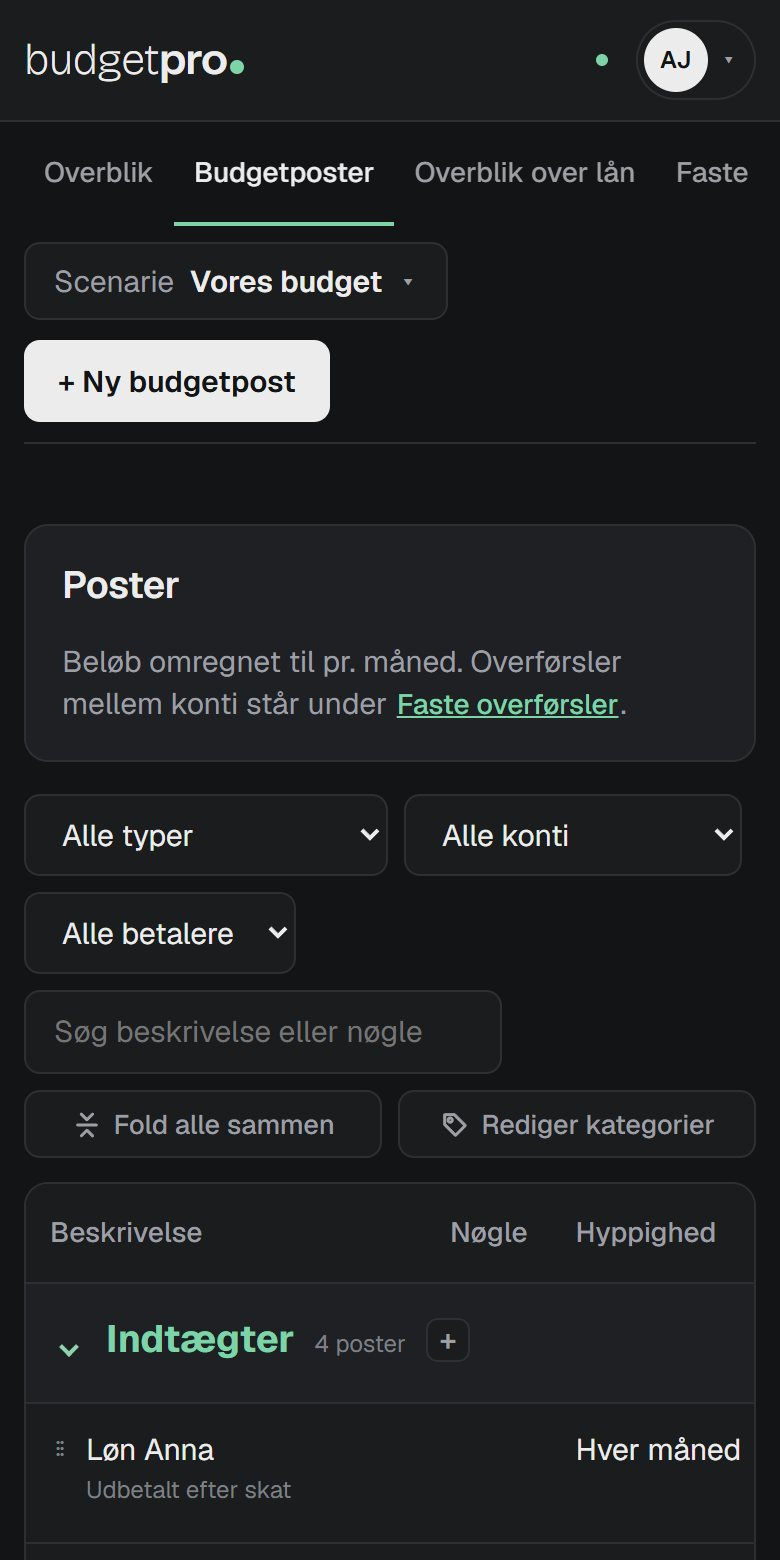
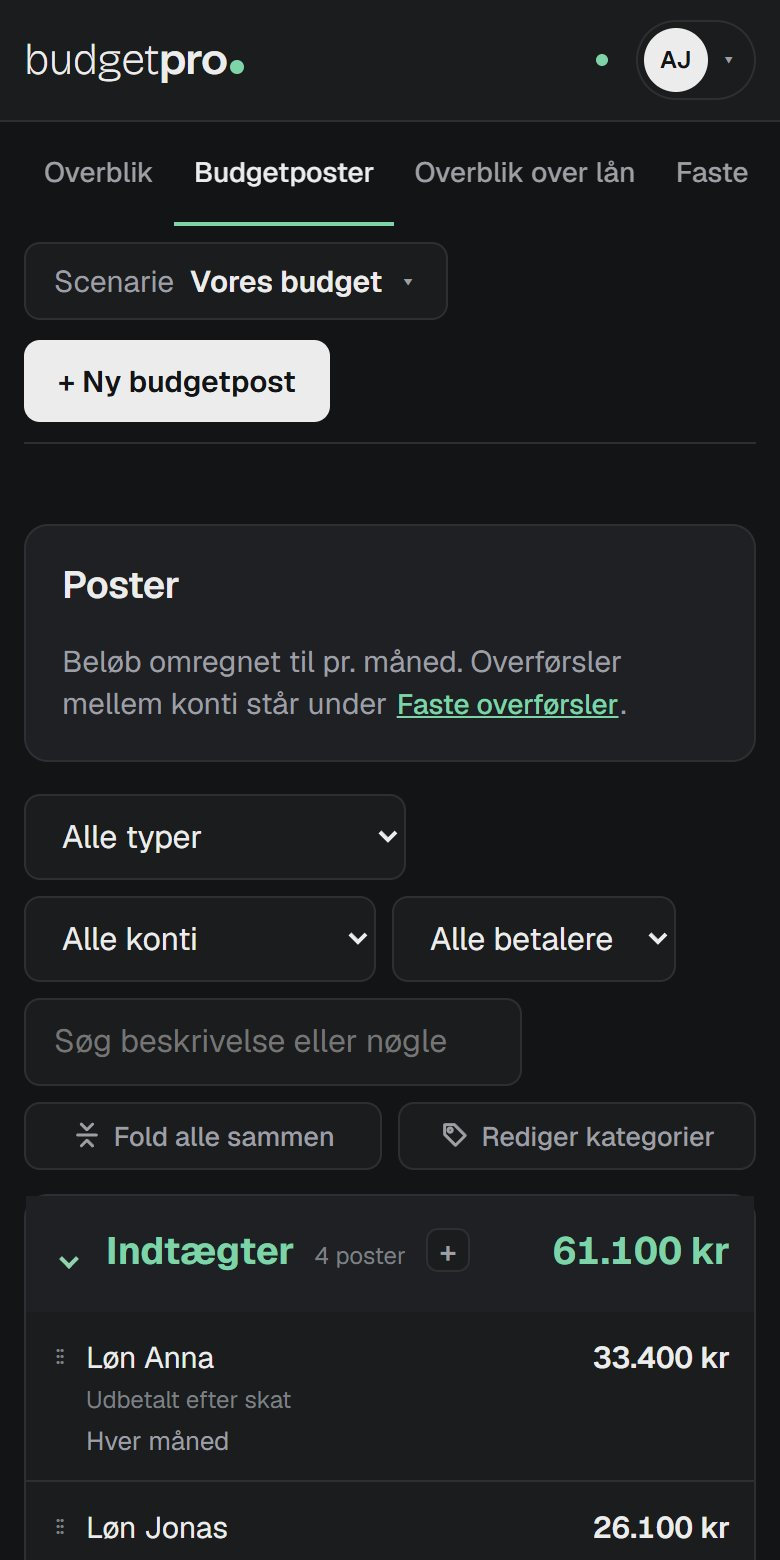
App on phones: post list, full-screen settings, no zoom on inputs
- Budgetposter becomes a list below 560px: text and amount per month on
  top, frequency and change below, instead of eight columns where the
  amount fell off the screen.
- Indstillinger fills the screen, the open tab scrolls into view and the
  tab row fades out while there are more tabs; the tabs no longer stretch.
- Inputs are 16px on phones, so iOS doesn't zoom in on focus.
- Tables wider than the screen show a shadow at the edge with more.
- Deling: e-mail on its own line under name and button; messages scroll
  into view.
- Landing screenshots regenerated.

diff --git a/public/budgetr-app/index.html b/public/budgetr-app/index.html
@@ -394,9 +394,12 @@ dialog.setdlg{height:min(640px,90vh)}.setdlg form{height:100%}
 .personedit{display:grid;grid-template-columns:minmax(0,1fr) auto;gap:8px;align-items:center}
 .personedit input{border:1px solid var(--rule);background:var(--card);border-radius:8px;padding:8px 10px;font-size:15px;min-width:0}
 .setgrp[hidden],.verdict[hidden]{display:none}
-.sharerow{padding:8px 10px;border:1px solid var(--rule);border-radius:8px;background:var(--card)}
-.sharerow .who{min-width:0;display:flex;flex-direction:column;gap:1px;font-size:15px}
-.sharerow .who span{font-size:13px;color:var(--ink2);overflow-wrap:anywhere}
+/* Name and badge with the button beside them; the e-mail gets the whole width below, so a long one wraps less. */
+.sharerow{padding:8px 10px;border:1px solid var(--rule);border-radius:8px;background:var(--card);row-gap:2px}
+.sharerow>b{font-size:15px;min-width:0}
+.sharerow>.mail{grid-column:1/-1;grid-row:2;font-size:13px;color:var(--ink2);overflow-wrap:anywhere}
+.sharerow>button{grid-column:2;grid-row:1}
+.sharerow>button[data-armed="1"]{grid-column:1/-1;grid-row:3;margin-top:6px}
 .setnote{font-size:13px;color:var(--ink2);margin:-4px 0 0;max-width:68ch}
 .setsec .grid3{display:grid;grid-template-columns:repeat(3,minmax(0,1fr));gap:12px}
 @media (max-width:640px){.setbody{grid-template-columns:minmax(0,1fr)}.setnav{flex-direction:row;overflow-x:auto;border-right:0;border-bottom:1px solid var(--rule);padding:8px}.setnav{width:auto}.setnav button{white-space:nowrap}.setnav button span{display:none}.setsec .grid3{grid-template-columns:minmax(0,1fr)}}
@@ -778,6 +781,38 @@ dialog.howdlg{width:min(1180px,96vw);max-width:none;height:92vh;max-height:92vh;
 .hfreqm{display:grid;grid-template-columns:repeat(12,1fr);gap:6px;font-size:12px;color:var(--ink2);text-align:center}
 @media (max-width:760px){dialog.howdlg{width:100vw;height:100vh;max-height:100vh;border-radius:0}.howwrap{grid-template-columns:minmax(0,1fr);grid-template-rows:auto minmax(0,1fr)}.hownav{border-right:0;border-bottom:1px solid var(--rule);padding:12px 12px 8px}.hownav h2{padding:0 6px 8px;font-size:18px}#helpNav{flex-direction:row;overflow-x:auto;scrollbar-width:none}#helpNav a{white-space:nowrap;padding:6px 10px}.howtop{position:absolute;top:8px;right:8px;padding:0}.howbody{padding:16px 16px 60px;gap:28px}.hsec h3{font-size:21px}.hudl{grid-template-columns:minmax(0,1fr)}.hwf>div{grid-template-columns:minmax(0,1fr) 90px}.hwf .tr{grid-column:1/-1;grid-row:2}.hpanel{padding:16px}}
 @media (max-width:760px){.appbar .status{font-size:0;gap:0}.tabs button{min-height:52px;font-size:14px!important;padding:0 10px!important}.navrow{min-height:0}.hero{padding-top:32px}#app>section{padding-top:40px}#app>section>.sechead,#app>section>h2{padding:16px 18px}#app>section>.sechead h2,#app>section>h2{font-size:19px}.person{padding:20px}.person .big{font-size:30px}.kpi b{font-size:21px}#userMenu{width:min(320px,calc(100vw - 24px))}}
+/* Phones. Inputs at 16px, so iOS doesn't zoom in on focus. A table that is wider than the screen shows a shadow
+   at the edge that has more (the covers scroll with the content, the shadows stay). */
+@media (max-width:640px){
+  input:not([type=checkbox]):not([type=radio]),select,textarea{font-size:16px!important}
+  .tablewrap{background:linear-gradient(to right,var(--card) 30%,transparent) left/28px 100% no-repeat local,linear-gradient(to left,var(--card) 30%,transparent) right/28px 100% no-repeat local,radial-gradient(farthest-side at 0 50%,rgba(0,0,0,.24),transparent) left/14px 100% no-repeat scroll,radial-gradient(farthest-side at 100% 50%,rgba(0,0,0,.24),transparent) right/14px 100% no-repeat scroll,var(--card)}
+  /* Indstillinger fills the screen; the section tabs fade out at the edge while there are more to scroll to. */
+  dialog.setdlg{width:100vw;max-width:100vw;height:100dvh;max-height:100dvh;margin:0;inset:0;border:0;border-radius:0}
+  .setdlg form{max-height:100dvh}
+  .setbody{grid-template-rows:auto minmax(0,1fr)}
+  .sethead{padding:calc(12px + env(safe-area-inset-top,0px)) 16px 12px}
+  .setmain{padding:4px 16px calc(24px + env(safe-area-inset-bottom,0px))}
+  .setnav{scrollbar-width:none;-webkit-mask-image:linear-gradient(to right,#000 82%,transparent);mask-image:linear-gradient(to right,#000 82%,transparent)}
+  .setnav.end{-webkit-mask-image:none;mask-image:none}
+}
+/* Budgetposter on a phone: a list instead of eight columns. Each post shows its text and the amount per month, with
+   frequency and change below; account and payer are in the post. Group and category rows keep label and sum. */
+@media (max-width:560px){
+  .ptbl{overflow:visible;background:var(--card)}
+  .ptbl table,.ptbl tbody{display:block;width:100%}
+  .ptbl thead{display:none}
+  .ptbl tr{display:grid;grid-template-columns:minmax(0,1fr) auto;column-gap:10px}
+  .ptbl td{display:none;border-bottom:0}
+  .ptbl tr>td:first-child,.ptbl tr:not(.row)>td:nth-child(2){display:block}
+  .ptbl tr>td[colspan="8"]{grid-column:1/-1}
+  .ptbl tr.row{border-bottom:1px solid var(--rule)}
+  .ptbl tr.row>td.desc{min-width:0;padding-bottom:2px}
+  .ptbl tr.row>td:nth-child(5){display:block;grid-column:2;grid-row:1;font-weight:600;padding-bottom:2px}
+  .ptbl tr.row>td:nth-child(3){display:block;grid-column:1;grid-row:2;padding:0 8px 10px 30px;font-size:13px;color:var(--ink2)}
+  .ptbl tr.row>td:nth-child(6){display:block;grid-column:2;grid-row:2;padding-top:0}
+  .ptbl tr.grp,.ptbl tr.cat{column-gap:0}
+  .ptbl tr.grp>td,.ptbl tr.cat>td{border-bottom:0}
+}
 @media print{
   .appbar,.navrow{display:none!important}
   header.top .tools,.filters,button,.plan .ctrl{display:none!important}
@@ -1463,7 +1498,7 @@ function render(){
     <input id="flQ" type="search" placeholder="Søg beskrivelse eller nøgle" aria-label="Søg" value="${esc(F.q)}">
     <div class="ptools"><button type="button" class="tbtn" id="btnFoldPosts">${foldAllHtml()}</button><button type="button" class="tbtn" id="btnCats" title="Opret, omdøb, sortér og slet udgiftskategorier"><svg viewBox="0 0 16 16" aria-hidden="true"><path d="M2.5 2.5h5.2l5.8 5.8-5.2 5.2-5.8-5.8z"/><circle cx="5.4" cy="5.4" r="1.1"/></svg><span>Rediger kategorier</span></button></div>
   </div>
-  <div class="tablewrap"><table><thead><tr><th>Beskrivelse</th><th>Nøgle</th><th>Hyppighed</th><th class="r">Beløb</th><th class="r">${view==='aar'?'Pr. år':'Pr. md.'}</th><th class="r">Udvikling</th><th>Konto</th><th>Betaler</th></tr></thead><tbody id="tbody">${rowsHtml()}</tbody></table></div></section>`;
+  <div class="tablewrap ptbl"><table><thead><tr><th>Beskrivelse</th><th>Nøgle</th><th>Hyppighed</th><th class="r">Beløb</th><th class="r">${view==='aar'?'Pr. år':'Pr. md.'}</th><th class="r">Udvikling</th><th>Konto</th><th>Betaler</th></tr></thead><tbody id="tbody">${rowsHtml()}</tbody></table></div></section>`;
   h+=devHtml();
   const hPost=h; h=hTop;
 
@@ -2954,12 +2989,13 @@ function fillRemind(){const sp=S.settings||{},r=rmOf(),due=rmDue();
   $('setRmSms').onchange=e=>rset('sms',e.target.checked);}
 /* Deling: up to three e-mails log in to one budget (lib/accounts.ts, /api/members). The primary adds and removes
    them; a member sees the list and can leave. Test users have no account, so the API answers 401 for them. */
-function shareMsg(txt,kind){const m=$('shareMsg');m.hidden=!txt;m.className='verdict'+(kind?' '+kind:'');m.innerHTML=txt||''}
+function shareMsg(txt,kind){const m=$('shareMsg');m.hidden=!txt;m.className='verdict'+(kind?' '+kind:'');m.innerHTML=txt||'';
+  if(txt)m.scrollIntoView({block:'nearest',behavior:'smooth'})}
 function renderShare(d){
   if(!d){$('shareList').innerHTML='';$('shareAdd').hidden=true;
     $('shareNote').textContent='Deling kræver en konto med e-mail. Test-brugere kan ikke dele budgettet.';return}
   const me=d.you,left=d.max-1-d.members.length;
-  const row=(name,mail,tag,btn)=>`<div class="personedit sharerow"><div class="who"><b>${esc(name)}${tag?` <span class="badge ${tag[1]}">${tag[0]}</span>`:''}</b><span>${esc(mail)}</span></div>${btn||''}</div>`;
+  const row=(name,mail,tag,btn)=>`<div class="personedit sharerow"><b>${esc(name)}${tag?` <span class="badge ${tag[1]}">${tag[0]}</span>`:''}</b><span class="mail">${esc(mail)}</span>${btn||''}</div>`;
   $('shareList').innerHTML=row(d.primary.name,d.primary.email,['Primær','gtag'])
     +d.members.map(m=>row(m.name+(m.id===me?' (dig)':''),m.email,m.pending?['Afventer','chk']:null,
       !me?`<button type="button" class="ghost danger" data-shdel="${m.id}" aria-label="Fjern ${esc(m.name)}">Fjern</button>`
@@ -2995,7 +3031,11 @@ $('shareSend').onclick=()=>{const b=$('shareSend'),firstName=$('shareName').valu
 let setPage='hus';
 function setShow(sec){if(!$('set-'+sec))sec='hus';setPage=sec;if(sec==='deling'){shareMsg('');loadShare()}
   document.querySelectorAll('#setMain .setsec').forEach(x=>x.classList.toggle('on',x.id==='set-'+sec));
-  document.querySelectorAll('.setnav [data-sp]').forEach(b=>{if(b.dataset.sp===sec)b.setAttribute('aria-current','page');else b.removeAttribute('aria-current')});$('setMain').scrollTop=0}
+  document.querySelectorAll('.setnav [data-sp]').forEach(b=>{if(b.dataset.sp===sec){b.setAttribute('aria-current','page');
+    // On a phone the tabs are one scrolling row: bring the open one into view.
+    const n=b.parentNode;if(n.scrollWidth>n.clientWidth)n.scrollLeft=Math.max(0,b.offsetLeft-(n.clientWidth-b.offsetWidth)/2);setNavEnd()}else b.removeAttribute('aria-current')});$('setMain').scrollTop=0}
+const setNavEnd=()=>{const n=document.querySelector('.setnav');n.classList.toggle('end',n.scrollLeft+n.clientWidth>=n.scrollWidth-2)};
+document.querySelector('.setnav').addEventListener('scroll',setNavEnd,{passive:true});
 function openSet(sec){if(!S){openWiz();return}fillSet();setShow(sec||setPage);if(!$('dlgSet').open)$('dlgSet').showModal()}
 document.querySelector('.setnav').addEventListener('click',ev=>{const b=ev.target.closest('[data-sp]');if(b)setShow(b.dataset.sp)});
 const setCommit=()=>{commit();fillSet()};
